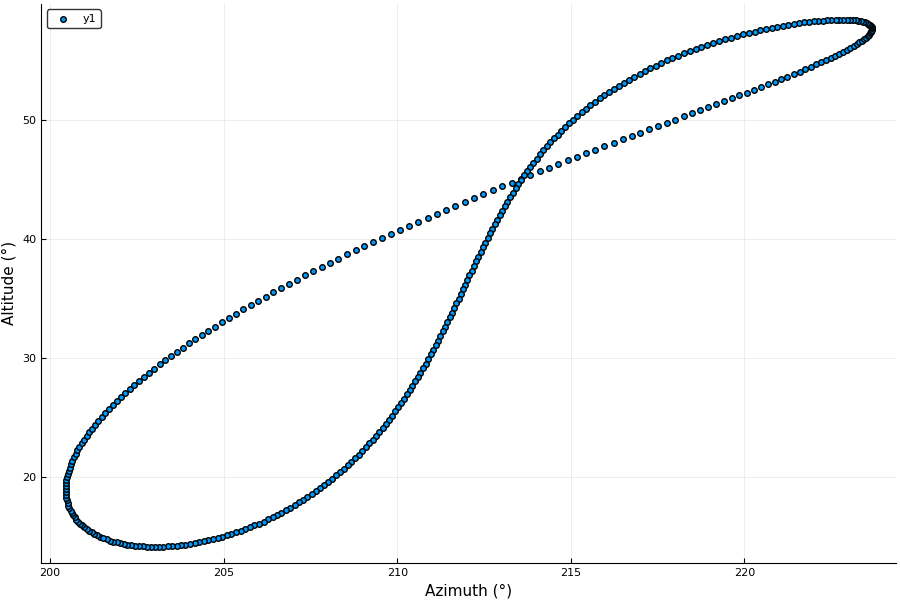
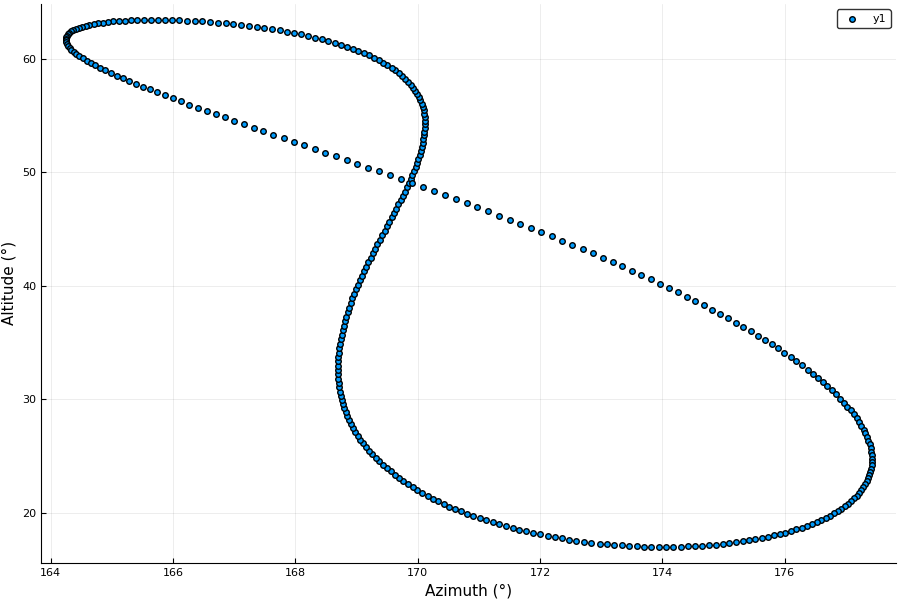
Fix sign of time zone in analemma function

diff --git a/_posts/2017-11-05-analemma.md b/_posts/2017-11-05-analemma.md
@@ -61,7 +61,7 @@ using AstroLib
 
 function analemma(start_date, end_date,
                   time_zone, latitude, longitude, elevation)
-    julian_dates = (jdcnv(start_date):jdcnv(end_date)) .+ time_zone/24
+    julian_dates = (jdcnv(start_date):jdcnv(end_date)) .- time_zone/24
     right_ascension, declination = sunpos(julian_dates)
     altaz = eq2hor.(right_ascension, declination,
 	                julian_dates, latitude, longitude, elevation)
